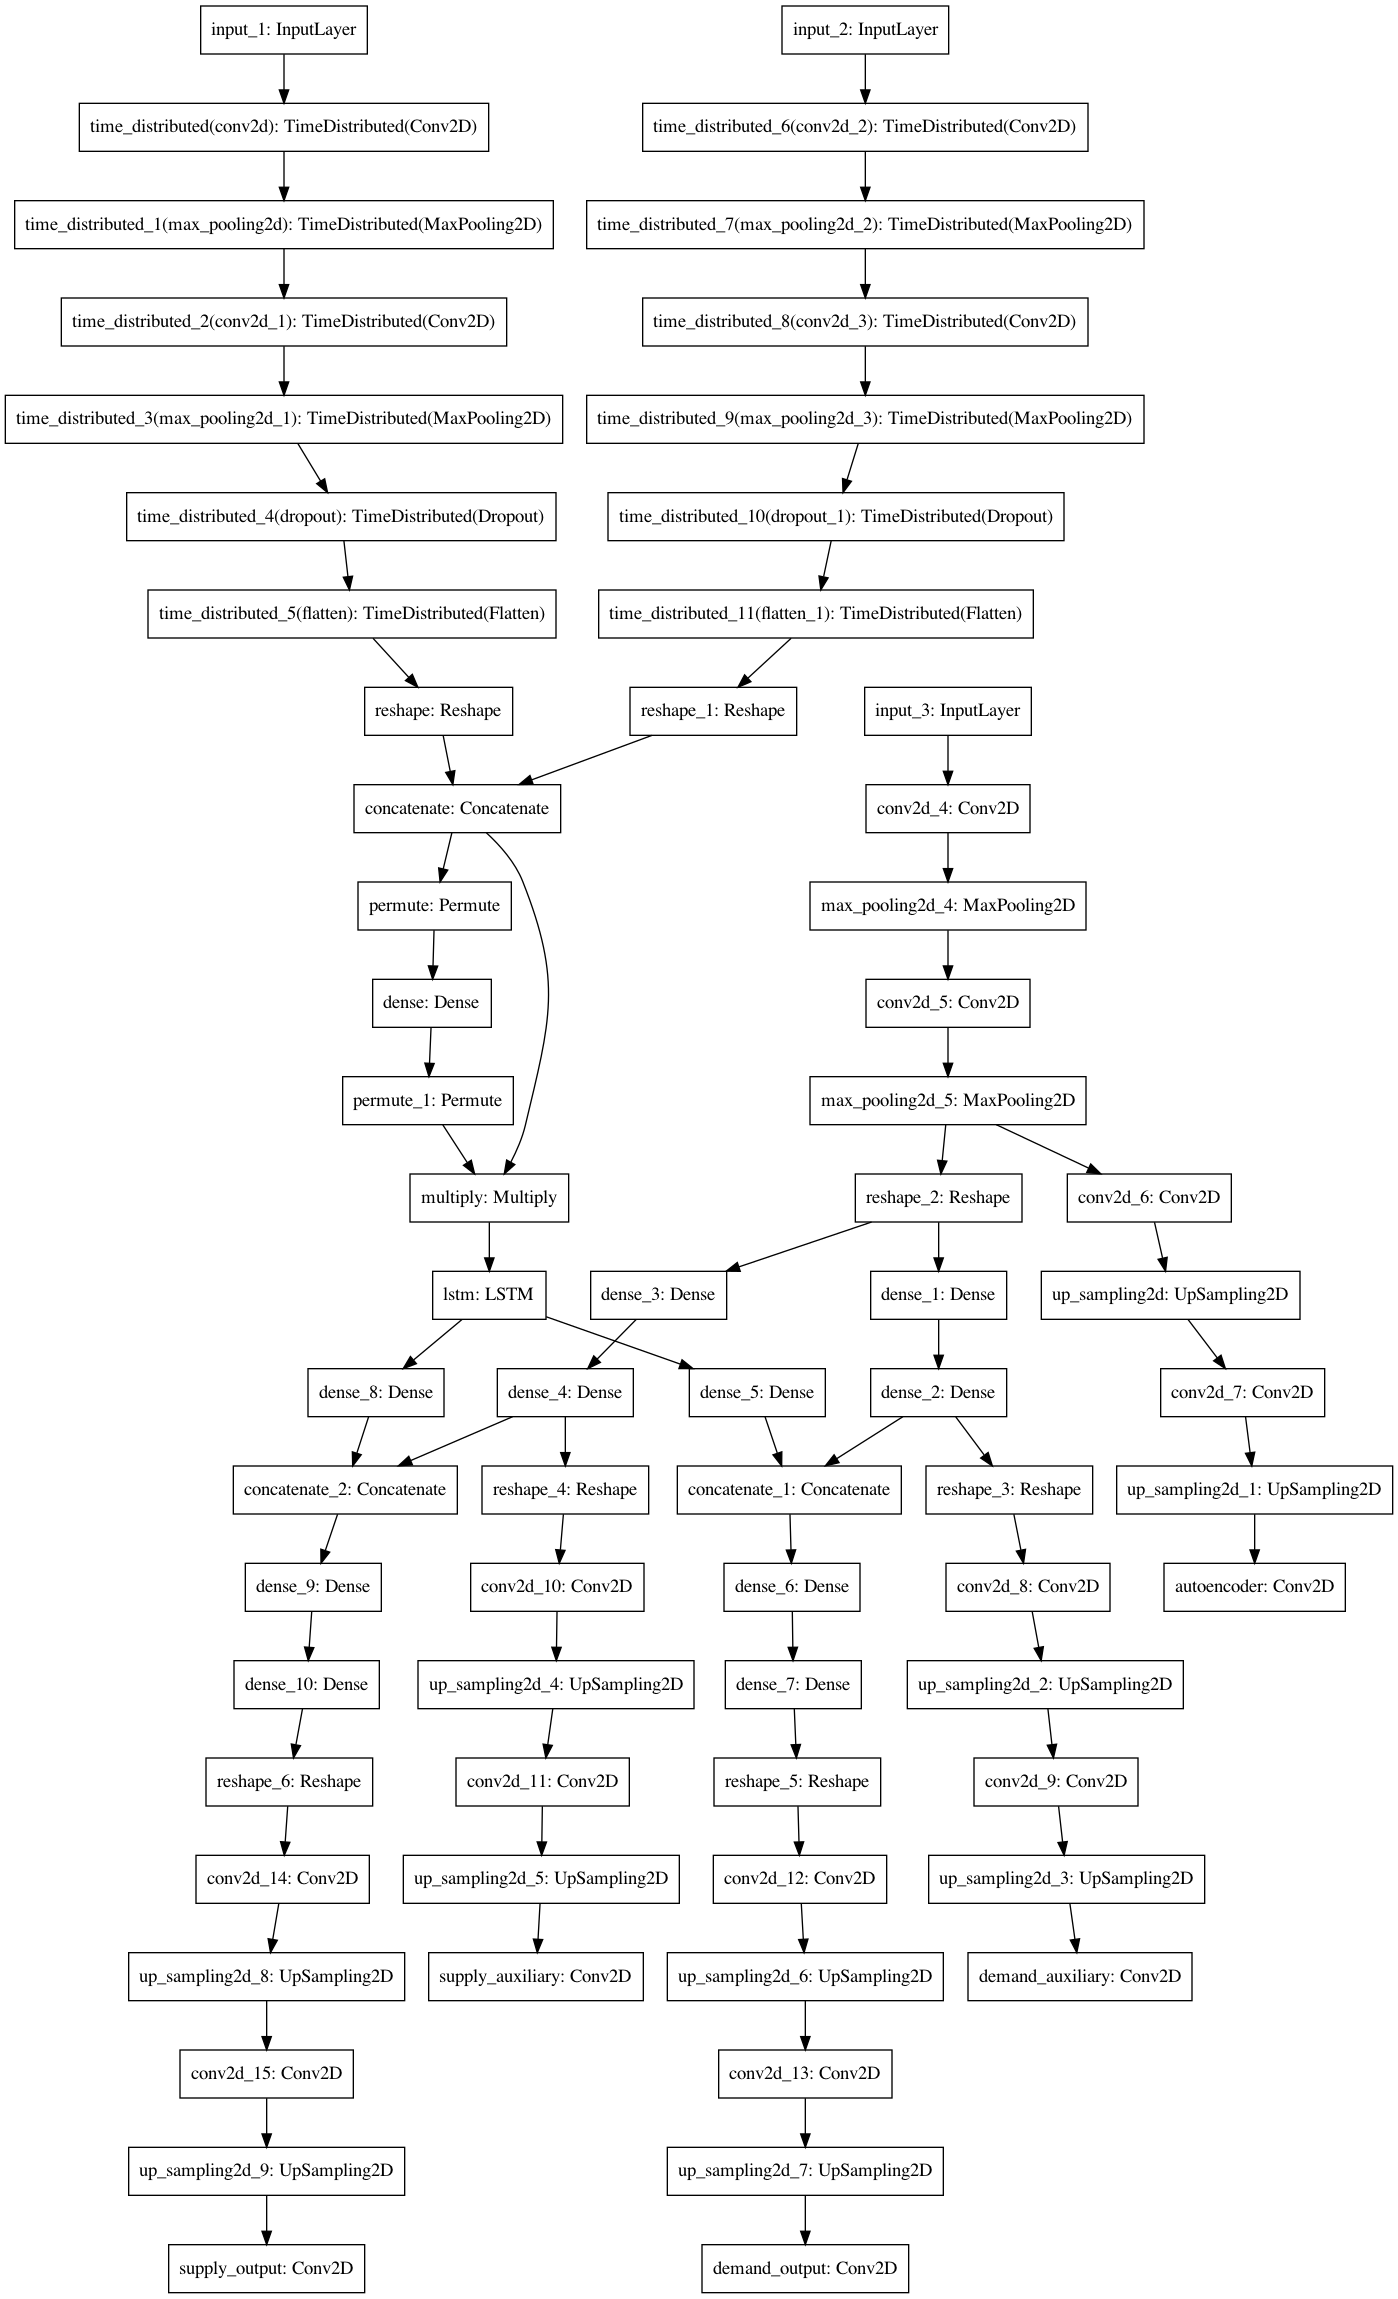
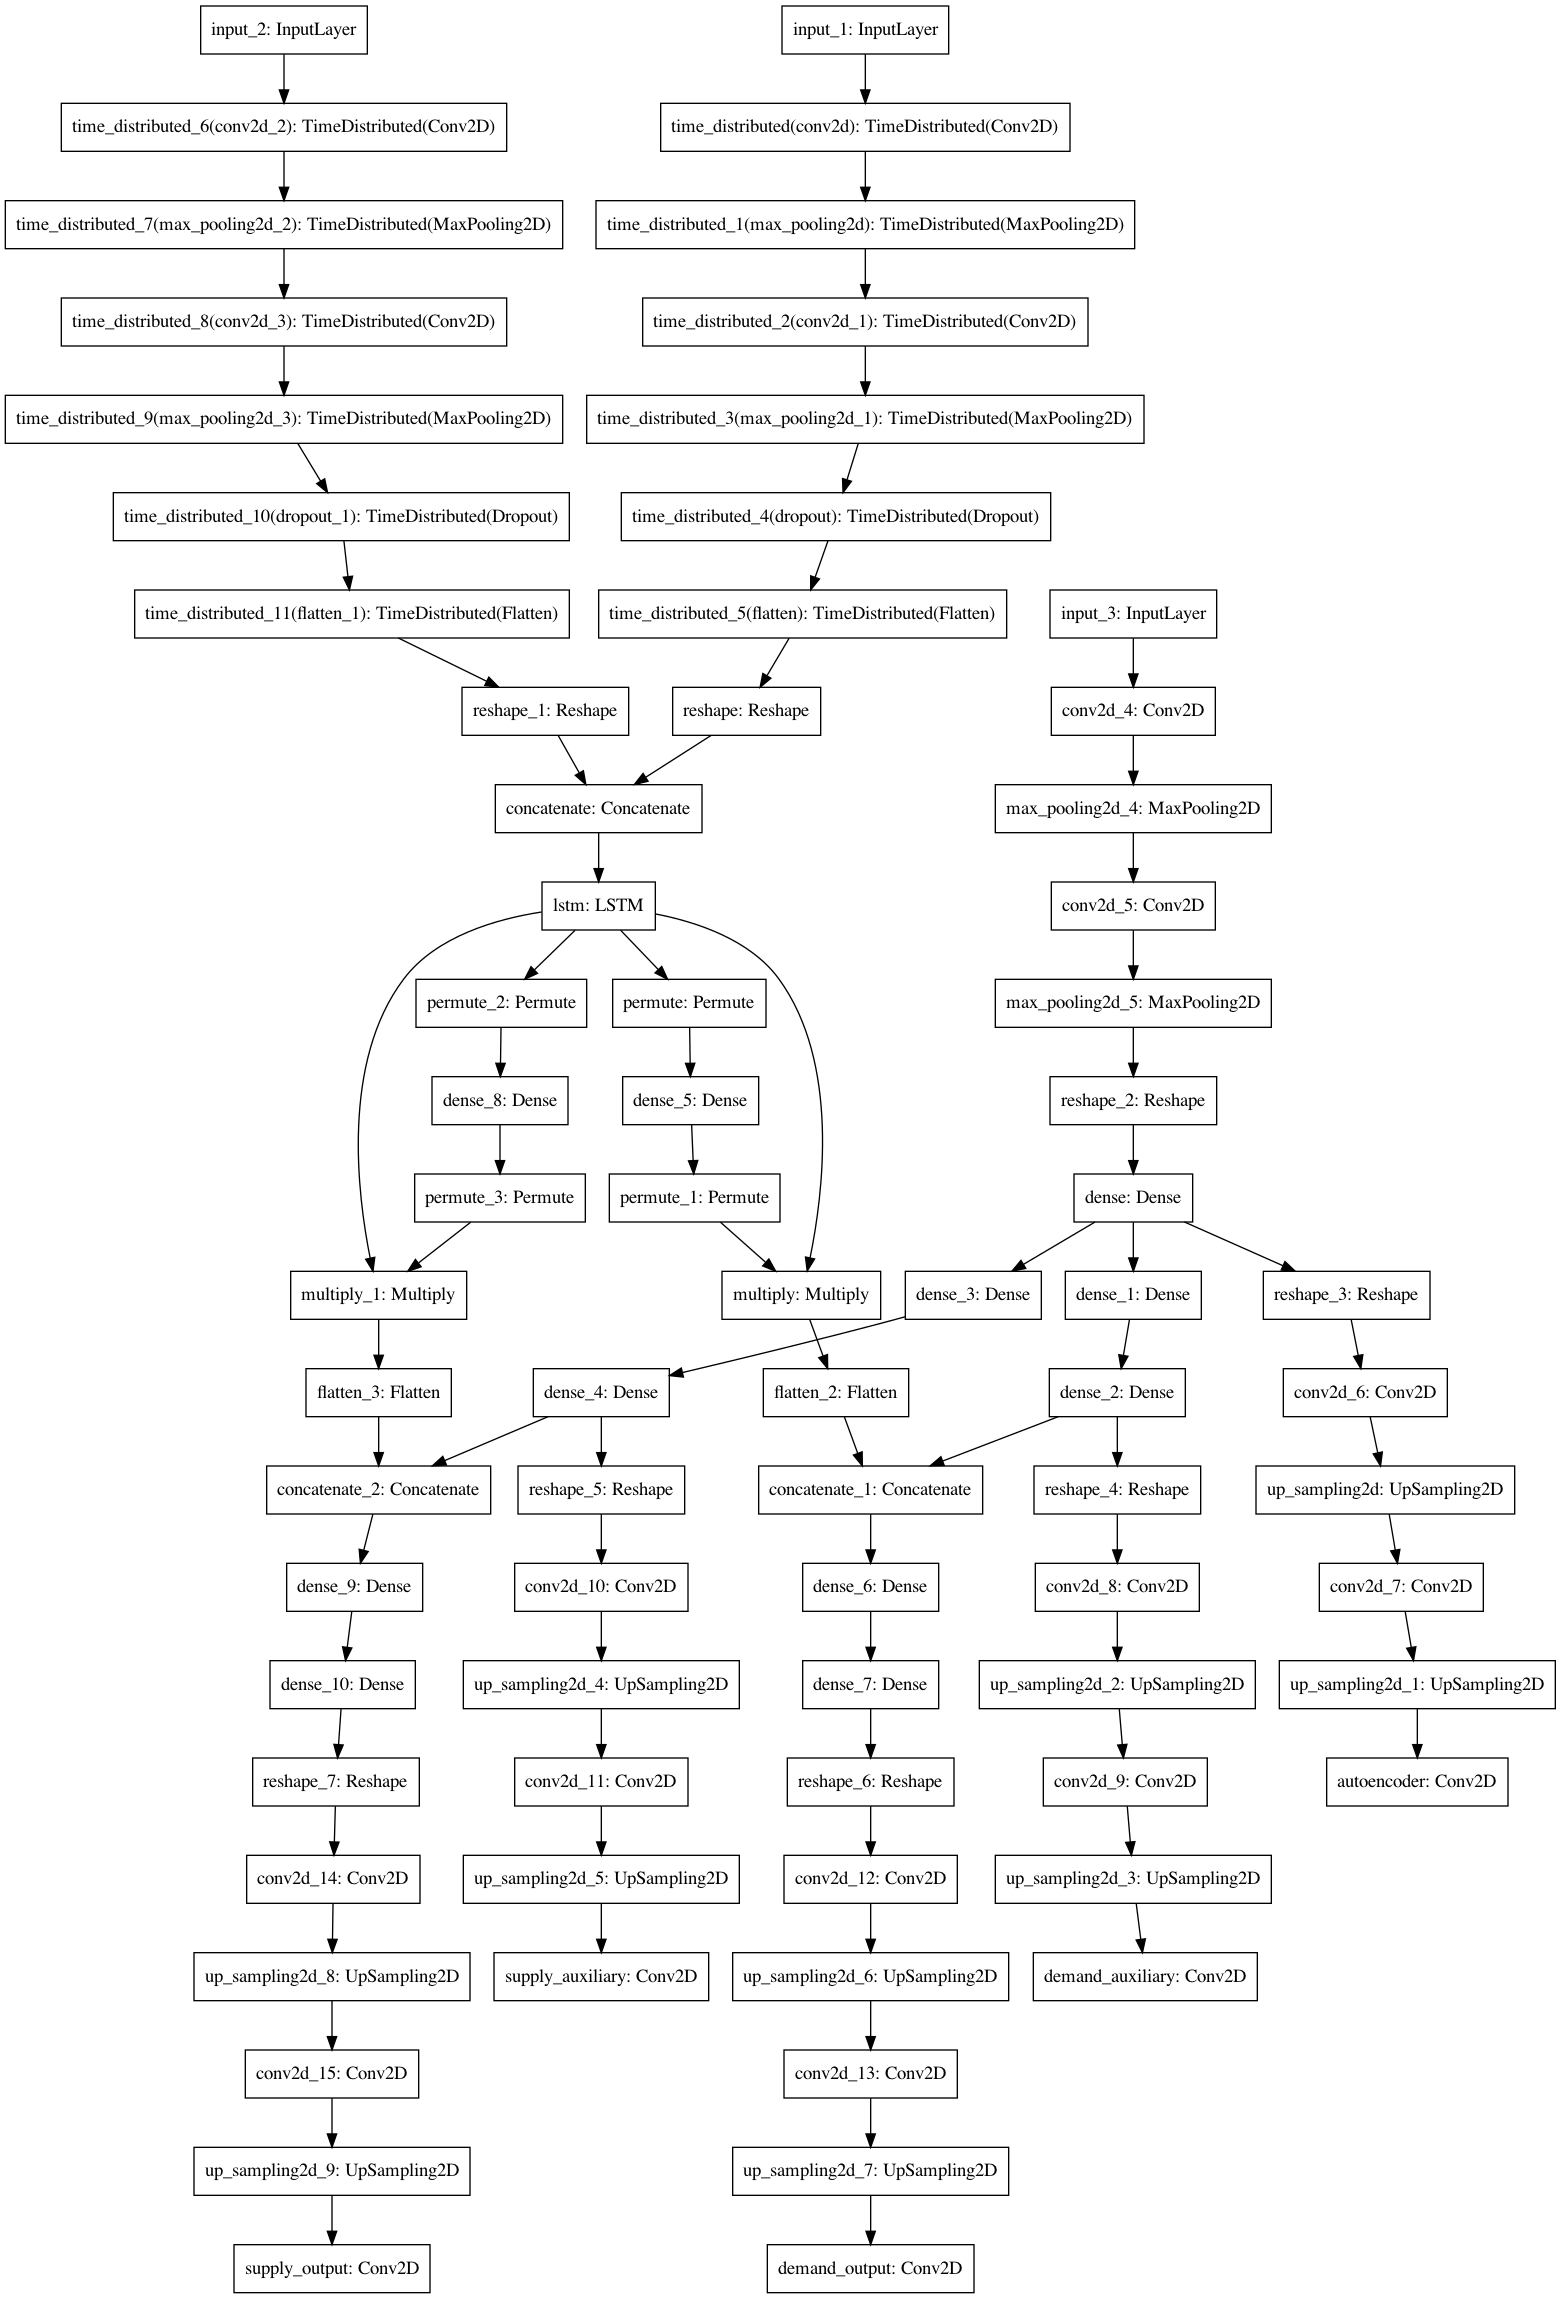
Add single task

diff --git a/single_task_demand.py b/single_task_demand.py
@@ -77,7 +77,7 @@ supply_encoder = encoder(input_supply)
 supply_reshape = TimeDistributed(Dropout(0.3))(supply_encoder)
 supply_reshape = TimeDistributed(Flatten())(supply_reshape)
 supply_reshape = Reshape((timestep, dim))(supply_reshape)
-
+"""
 demand_decoder = TimeDistributed(Conv2D(16, (3, 3), padding='same', activation='relu'))(demand_encoder)
 demand_decoder = TimeDistributed(UpSampling2D((2, 2)))(demand_decoder)
 demand_decoder = TimeDistributed(Conv2D(8, (3, 3), padding='same', activation='relu'))(demand_decoder)
@@ -89,11 +89,11 @@ supply_decoder = TimeDistributed(UpSampling2D((2, 2)))(supply_decoder)
 supply_decoder = TimeDistributed(Conv2D(8, (3, 3), padding='same', activation='relu'))(supply_decoder)
 supply_decoder = TimeDistributed(UpSampling2D((2, 2)))(supply_decoder)
 supply_decoder = TimeDistributed(Conv2D(1, (3, 3), padding='same', activation='relu'))(supply_decoder)
-
+"""
 combine_demand_supply = concatenate([demand_reshape, supply_reshape])
 lstm = LSTM(dim, return_sequences=1, input_shape=(timestep, dim * 2))(combine_demand_supply)
 
-input_aux = Input(shape=(size, size, 13))
+input_aux = Input(shape=(size, size, 12))
 aux_encode = Conv2D(16, (3, 3), padding='same', activation='relu')(input_aux)
 aux_encode = MaxPooling2D(pool_size=(2, 2))(aux_encode)
 aux_encode = Conv2D(32, (3, 3), padding='same', activation='relu')(aux_encode)
@@ -102,7 +102,7 @@ aux_decode = Conv2D(32, (3, 3), padding='same', activation='relu')(aux_encode)
 aux_decode = UpSampling2D((2, 2))(aux_decode)
 aux_decode = Conv2D(16, (3, 3), padding='same', activation='relu')(aux_decode)
 aux_decode = UpSampling2D((2, 2))(aux_decode)
-aux_decode = Conv2D(13, (3, 3), padding='same', activation='relu', name='autoencoder')(aux_decode)
+aux_decode = Conv2D(12, (3, 3), padding='same', activation='relu', name='autoencoder')(aux_decode)
 
 
 aux_dim = 32*4*4
@@ -136,22 +136,22 @@ supply_combine = Dense(dim * 2)(supply_combine)
 supply_predict = main_task(supply_combine, 'supply')
 """
 model = Model(inputs=[input_demand, input_supply, input_aux],
-              outputs=[demand_predict, aux_decode, aux_demand_predict, demand_decoder, supply_decoder])
+              outputs=[demand_predict, aux_decode, aux_demand_predict])
 model.compile(loss='mse',
               optimizer='adam',
               metrics=[rmse],
-              loss_weights=[1, 2, 2, 0.25, 0.25])
+              loss_weights=[1, 2, 2])
 
 print(model.summary())
 #plot_model(model, to_file='model.png')
 
 history = model.fit([demandX_train, supplyX_train, factor_train],
-                    [demandY_train, factor_train, demand_aux_train, demandX_train, supplyX_train],
+                    [demandY_train, factor_train, demand_aux_train],
                     batch_size=8,
                     epochs=100,
                     verbose=2,
                     validation_data=([demandX_test, supplyX_test, factor_test],
-                                     [demandY_test, factor_test, demand_aux_test, demandX_test, supplyX_test]))
+                                     [demandY_test, factor_test, demand_aux_test]))
 
 demand_rmse = history.history['demand_output_rmse']
 val_demand_rmse = history.history['val_demand_output_rmse']

diff --git a/attention_adjust.py b/attention_adjust.py
@@ -70,18 +70,21 @@ demand_encoder = encoder(input_demand)
 demand_reshape = TimeDistributed(Dropout(0.3))(demand_encoder)
 demand_reshape = TimeDistributed(Flatten())(demand_reshape)
 demand_reshape = Reshape((timestep, dim))(demand_reshape)
+demand_attention = attention_3d_block(demand_reshape)
+demand_lstm = LSTM(int(dim), return_sequences=1, input_shape=(timestep, dim))(demand_attention)
 
 input_supply = Input(shape=(None, size, size, 1))
 supply_encoder = encoder(input_supply)
 supply_reshape = TimeDistributed(Dropout(0.3))(supply_encoder)
 supply_reshape = TimeDistributed(Flatten())(supply_reshape)
 supply_reshape = Reshape((timestep, dim))(supply_reshape)
+supply_attention = attention_3d_block(supply_reshape)
+supply_lstm = LSTM(int(dim), return_sequences=1, input_shape=(timestep, dim))(supply_attention)
 
 
-
-combine_demand_supply = concatenate([demand_reshape, supply_reshape])
-attention = attention_3d_block(combine_demand_supply)
-lstm = LSTM(int(dim), return_sequences=0, input_shape=(timestep, dim * 2))(attention)
+combine_demand_supply = concatenate([demand_lstm, supply_lstm])
+#attention = attention_3d_block(combine_demand_supply)
+lstm = LSTM(int(dim*2), return_sequences=0, input_shape=(timestep, dim * 2))(combine_demand_supply)
 
 input_aux = Input(shape=(size, size, 12))
 aux_encode = Conv2D(8, (3, 3), padding='same', activation='relu')(input_aux)

diff --git a/reduce_factor.py b/reduce_factor.py
@@ -141,7 +141,7 @@ history = model.fit([demandX_train, supplyX_train, factor_train],
                     [demandY_train, supplyY_train, factor_train, demand_aux_train, supply_aux_train],
                     batch_size=8,
                     epochs=100,
-                    verbose=2,
+                    verbose=1,
                     validation_data=([demandX_test, supplyX_test, factor_test],
                                      [demandY_test, supplyY_test, factor_test, demand_aux_test, supply_aux_test]))
 
